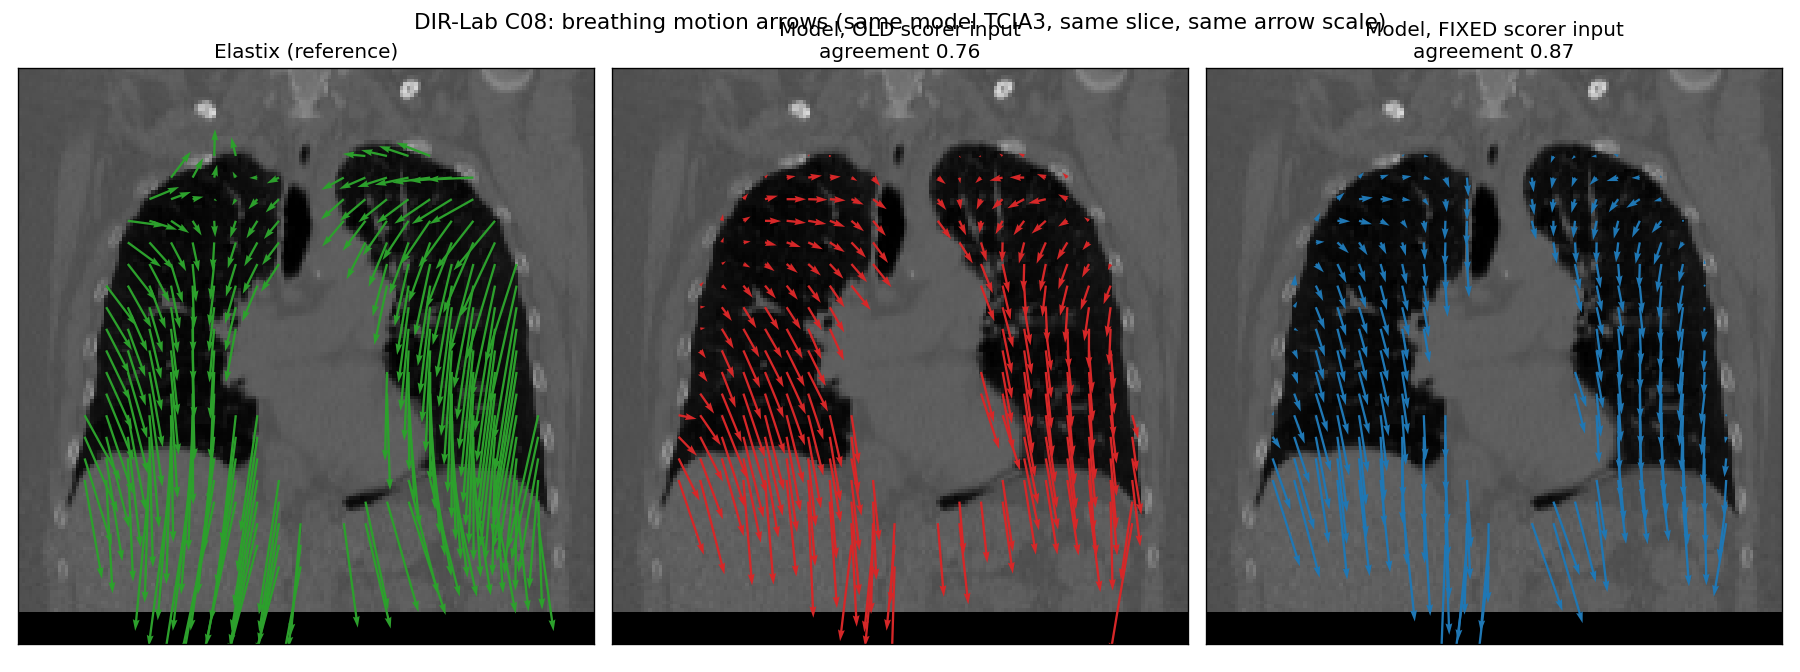
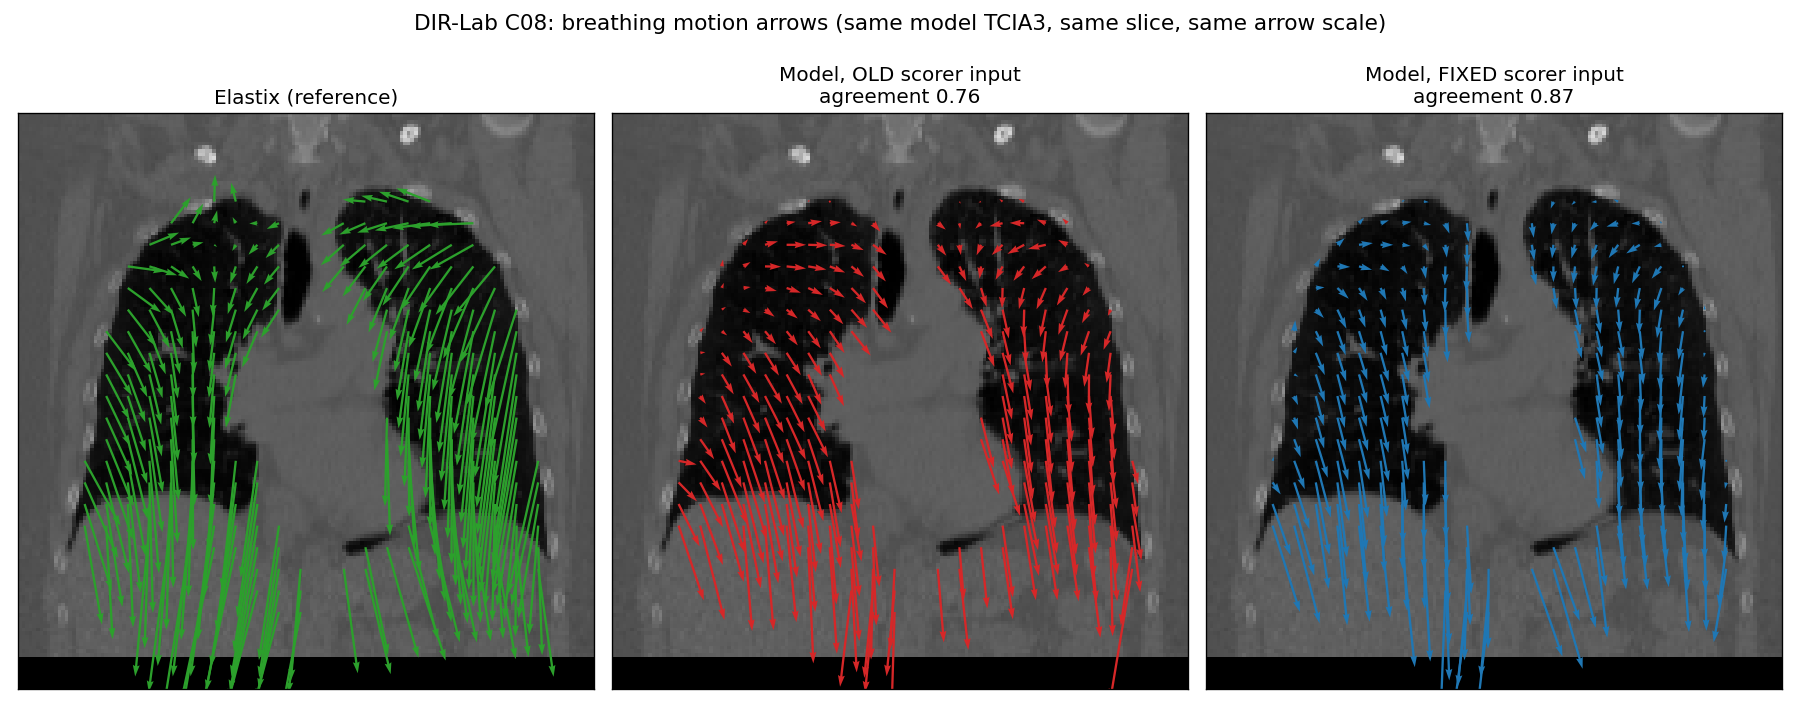
Slides: arrow figure title spacing

diff --git a/DIR EXPERIMENTS/slides/make_scorer_arrows_fig.py b/DIR EXPERIMENTS/slides/make_scorer_arrows_fig.py
@@ -69,7 +69,7 @@ def main():
     panels = [(el, "Elastix (reference)", "tab:green"),
               (old, f"Model, OLD scorer input\nagreement {c_old:.2f}", "tab:red"),
               (new, f"Model, FIXED scorer input\nagreement {c_new:.2f}", "tab:blue")]
-    fig, ax = plt.subplots(1, 3, figsize=(15, 5.6))
+    fig, ax = plt.subplots(1, 3, figsize=(15, 6.0))
     for a, (u, title, col) in zip(ax, panels):
         a.imshow(img, cmap="gray", vmin=0, vmax=1, origin="upper")
         ux, uy = u[z, yy, xx, 0], u[z, yy, xx, 1]
@@ -80,7 +80,7 @@ def main():
         a.set_xticks([]), a.set_yticks([])
     fig.suptitle(f"DIR-Lab C{CASE:02d}: breathing motion arrows (same model TCIA3, same slice, same arrow scale)",
                  fontsize=13)
-    fig.tight_layout()
+    fig.tight_layout(rect=(0, 0, 1, 0.94))
     fig.savefig(OUT, dpi=120)
     print("wrote", OUT)
 
